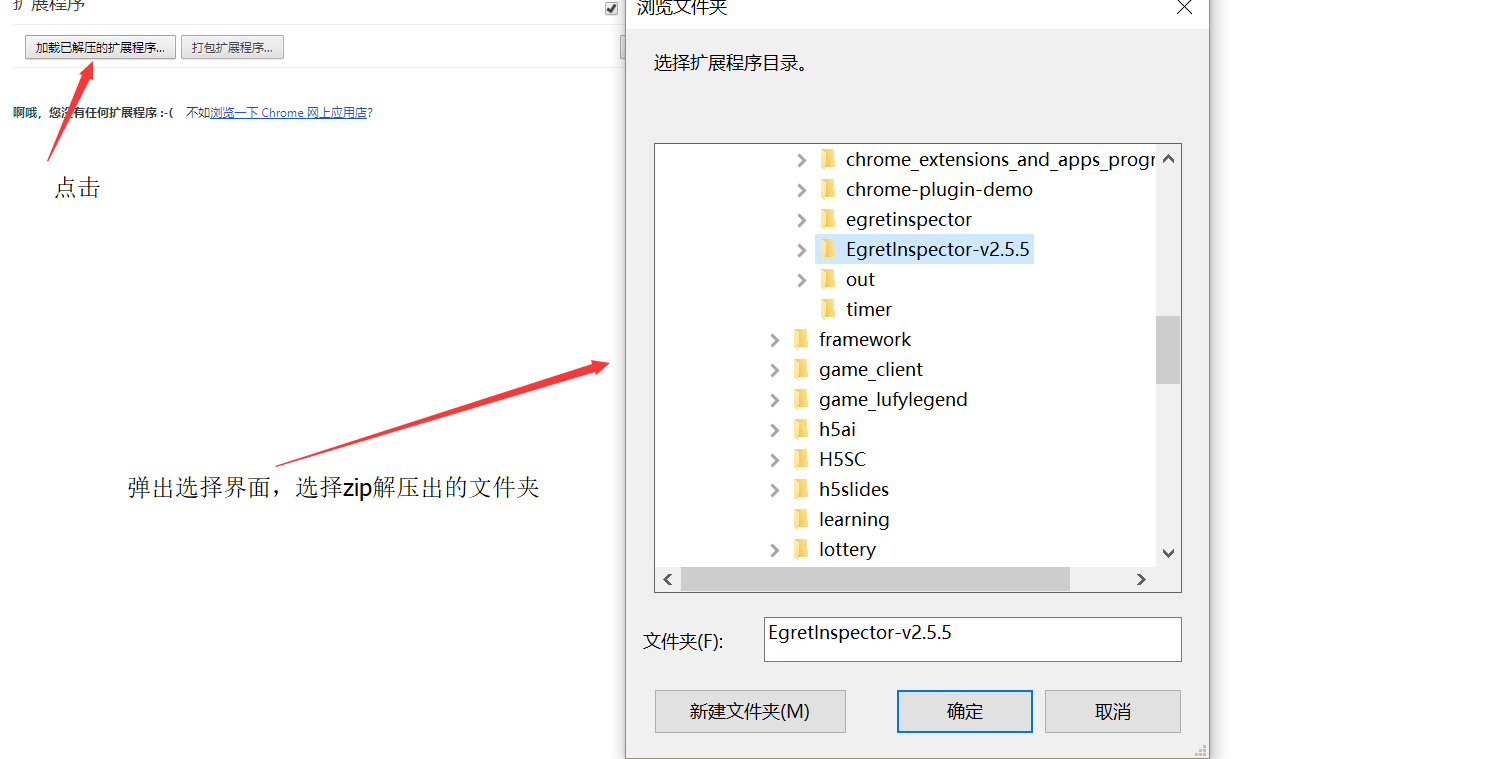
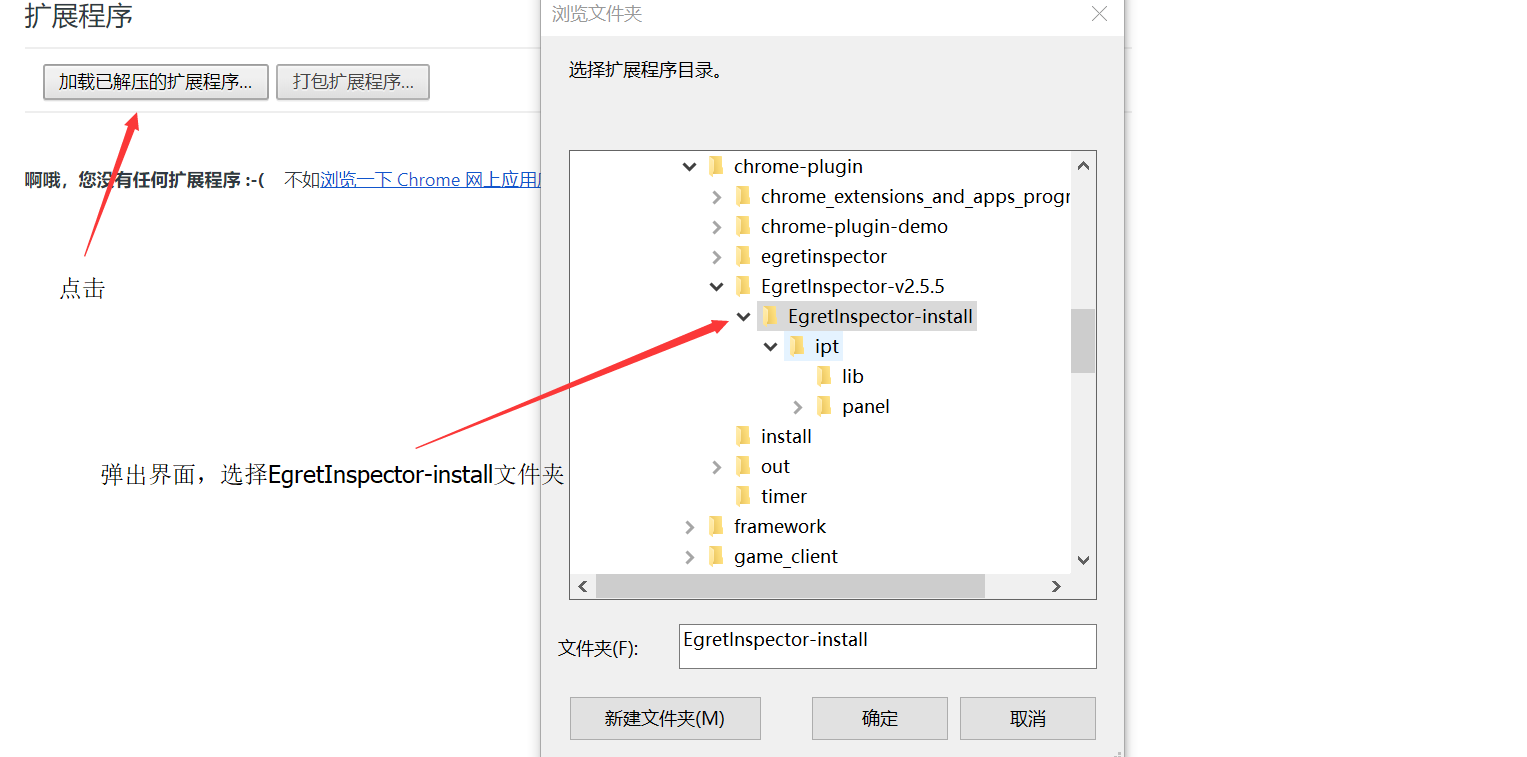
更改inspector安装教程

diff --git a/tools/Inspector/install/README.md b/tools/Inspector/install/README.md
@@ -6,7 +6,7 @@
 * 打开Chrome，转到Chrome扩展工具页 (可以直接输入chrome://extensions/ 打开)。
 * 先把开发者模式打开。
   ![image](3.png)
-* 然后会出现加载一解压的扩展程序，点击弹出浏览文件夹，选择刚刚zip解压出来的文件夹。
+* 然后会出现加载已解压的扩展程序，点击弹出浏览文件夹，选择刚刚zip解压出来的EgretInspector-install文件夹。
   ![image](4.png)
 * 点击确定安装，安装完成的状态：
   ![image](5.png)
